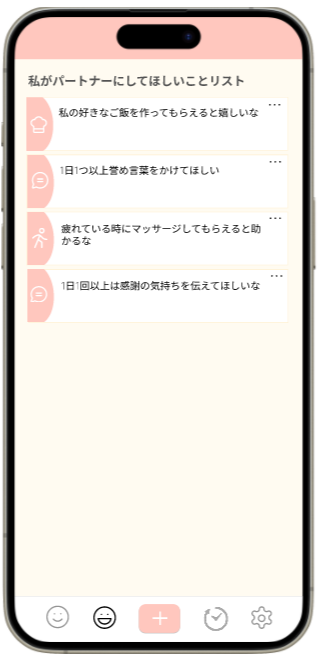
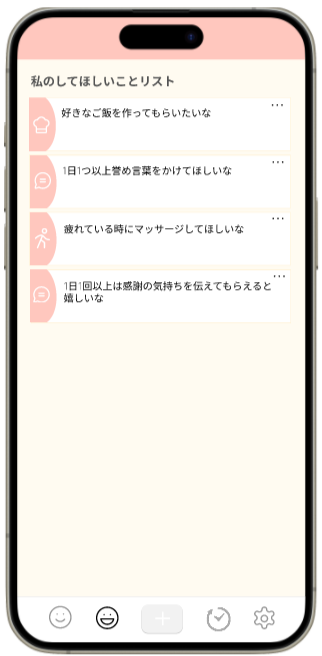
アプリの画像や説明文の更新

diff --git a/index.html b/index.html
@@ -31,19 +31,19 @@
         <h2>How it works</h2>
         <div class="list-title">
           <span class="list-number">1</span>
-          <h3 class="list-heading">パートナーが私にしてほしいことリスト</h3>
+          <h3 class="list-heading">パートナーのしてほしいことリスト</h3>
         </div>
         <img src="./img/self.png" />
         <p>
-          リストはあらかじめテンプレートを表示します。左側のアイコンでリスト内容を一目で確認できて右側の完了ボタンでリストアイテムの完了評価ができます。パートナーがしてほしいことを自分が取り組むと進捗に応じて植物も育ちます。
+          相手が自分に対して、してほしいと思っていることが一覧表示されます。リストはあらかじめテンプレートが表示されていて左側のアイコンでリスト内容を一目で確認できます。さらに、パートナーのしてほしいことを自分がしてあげた時に右側の完了ボタンを押すと完了したことをチェックできて表示されていたリストアイテムが消えます。さらに、パートナーのしてほしいことを自分が取り組むと進捗に応じて植物も育ちます。
         </p>
         <div class="list-title">
           <span class="list-number">2</span>
-          <h3 class="list-heading">私がパートナーにしてほしいことリスト</h3>
+          <h3 class="list-heading">私のしてほしいことリスト</h3>
         </div>
         <img src="./img/partner.png" />
         <p>
-          各リストアイテムの右のドットからはリストアイテムの編集・削除ができます。フッター中央の追加ボタンからはアイコンの種類を選択した上でリストアイテムとして相手にしてほしいことを入力して登録できます。登録できるリストアイテム数は相手の心理的負担を減らすために5個までとなっています。
+          フッター中央の追加ボタンからはアイコンの種類を選択し、相手に対してこうしてほしいと思っていることを入力するとリストアイテムを追加できます。この画面でもテンプレートが用意されていて登録できるリストアイテム数は相手の心理的負担を減らすために5個までとなっています。<br />各リストアイテムの右のドットからはリストアイテムの編集・削除ができます。
         </p>
         <div class="list-title">
           <span class="list-number">3</span>

diff --git a/css/style.css b/css/style.css
@@ -39,7 +39,7 @@ h3 {
 }
 .list-number {
   font-size: 3em;
-  color: #ff33b1;
+  color: #ff4646;
   font-weight: bold;
   margin-right: 10px;
   /* 文字のスタイル */
